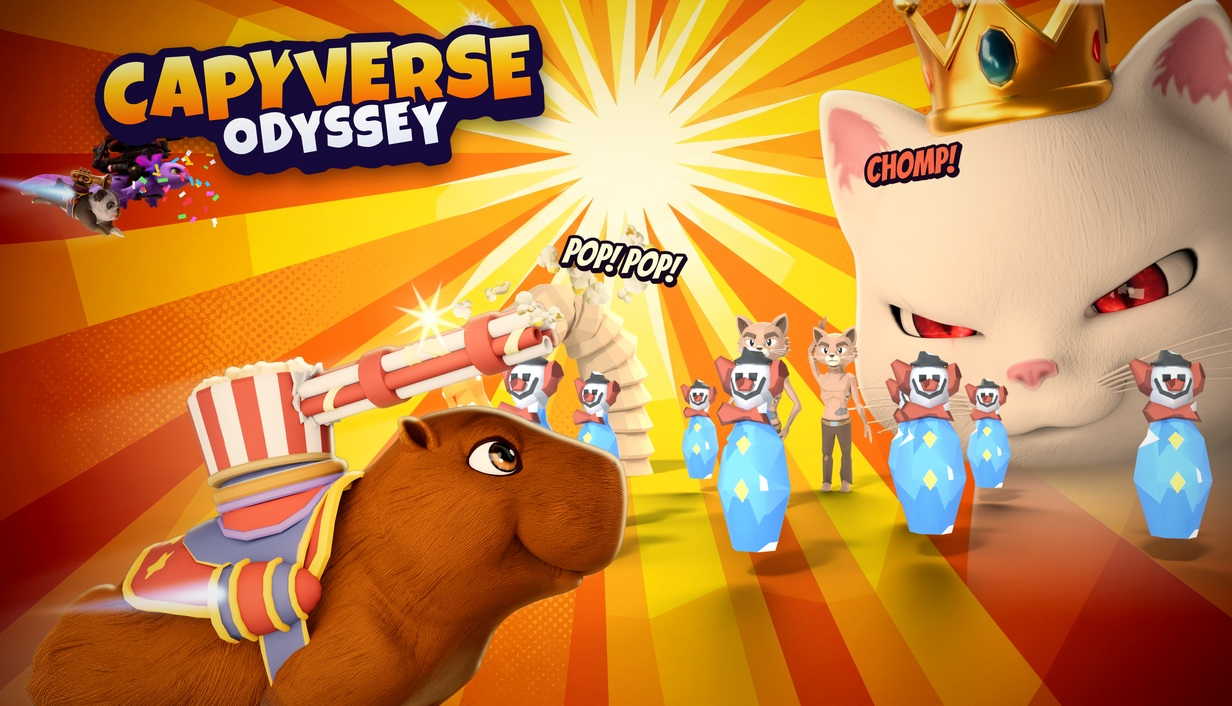
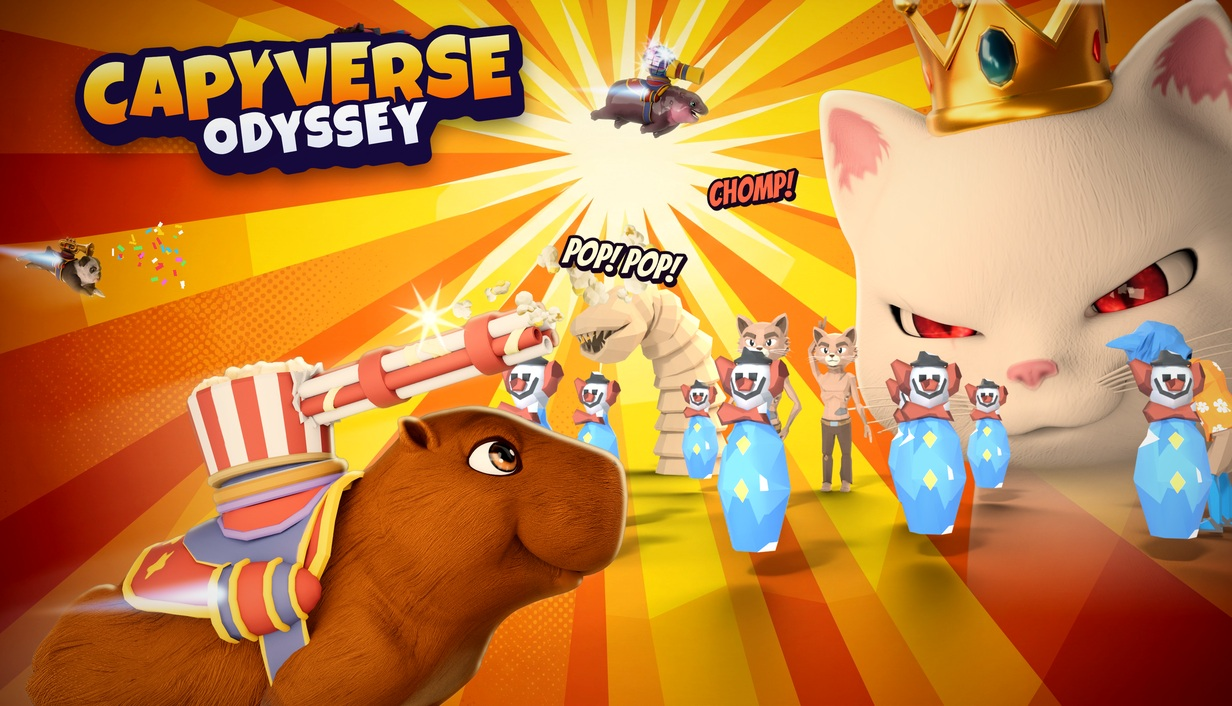
3D capsules round 6: five Blender scenes with real enemy assets composited with hero renders
Claude-Session: https://claude.ai/code/session_018fZnw7q9GfrPae2jvB7B6c

diff --git a/work/capsules-v1/gallery.html b/work/capsules-v1/gallery.html
@@ -51,7 +51,7 @@ h1 { font-family: var(--display); font-weight: 400; font-size: clamp(34px, 5vw, 
 <div class="wrap" id="app">
   <header>
     <h1>Capyverse Capsules</h1>
-    <p class="lede">Round 4: #12 on plain gradients, five in the brand yellow-to-orange and three off-brand color tests. Round 3: five variations of #12 Showdown Stack, with Cappy moved clear of the worm, bigger side-belt thrusters, a detailed golf shot and small comic sound effects. Round 2: ten capsules in the direction of the round 1 picks (01, 04, 09), Cappy always the hero, plus four art-style shaders. Steam main capsule size (1232×706). In every one, <b>the characters are the real Unreal render, not AI</b>. Only the backgrounds, Axie and the clown pin came from image models, then everything was composited by hand.</p>
+    <p class="lede">Round 6: five capsules built as a real 3D scene in Blender with the game's enemy meshes, rigs, animations and textures, the real hero renders composited in front. Round 4: #12 on plain gradients, five in the brand yellow-to-orange and three off-brand color tests. Round 3: five variations of #12 Showdown Stack, with Cappy moved clear of the worm, bigger side-belt thrusters, a detailed golf shot and small comic sound effects. Round 2: ten capsules in the direction of the round 1 picks (01, 04, 09), Cappy always the hero, plus four art-style shaders. Steam main capsule size (1232×706). In every one, <b>the characters are the real Unreal render, not AI</b>. Only the backgrounds, Axie and the clown pin came from image models, then everything was composited by hand.</p>
     <div class="bar">
       <div class="toggle" role="group" aria-label="Preview size">
         <button type="button" id="size-full" aria-pressed="true">Full size</button>
@@ -89,6 +89,13 @@ const V2 = [
   ["19_print_run_riso", "Print Run", "Shader: three-ink risograph poster in pink, yellow and blue on cream paper.", ["Shader", "Riso print"]],
   ["20_bleached_sun_painted", "Bleached Sun", "Shader: Risk of Rain 2 style painted key art, pale haze and a huge red sun.", ["Shader", "Painted"]],
 ];
+const V6 = [
+  ["3d_L1", "3D · Showdown", "Real Blender scene: bowling pins, worm (hit-ground anim), golfer (swing anim + hand-modelled club) and two posed Warboys charge left over the sunburst; Cappy dominates the front, Ophelia towers behind.", ["Round 6", "3D real assets"]],
+  ["3d_L2", "3D · Canyon Colossus", "The real worm rig scaled to boss size erupting from the canyon crater, pins scattering, golfer mid-swing on the right.", ["Round 6", "3D real assets"]],
+  ["3d_L3", "3D · Strike!", "A real 10-pin rack of bowling-pin enemies down the cosmic lane; the golfer swings in the foreground, Warboys cheer from the sides.", ["Round 6", "3D real assets"]],
+  ["3d_L4", "3D · Surrounded", "High camera: the enemies close in a ring around Cappy on the brand gradient, worm rising at the back.", ["Round 6", "3D real assets"]],
+  ["3d_L5", "3D · The March", "Ophelia's crew marches single-file into the dusk; Cappy turns to face them.", ["Round 6", "3D real assets"]],
+];
 const V4 = [
   ["12g1_vertical", "12g1 Vertical", "Vertical: golden yellow on top to vibrant orange at the bottom (the original gradient).", ["Round 4", "Brand gradient"]],
   ["12g2_diagonal", "12g2 Diagonal", "Diagonal: bright yellow top-left to deep orange bottom-right.", ["Round 4", "Brand gradient"]],
@@ -122,13 +129,13 @@ const card = ([id, name, idea, tags], i) => `
   <article class="cap" id="${id.replace(/_/g, "-")}">
     <figure><img src="caps/${id}.jpg" alt="${name} capsule" width="1232" height="706" loading="${i < 2 ? "eager" : "lazy"}"></figure>
     <div class="meta">
-      <span class="num">${id.match(/^\d+(g\d|[a-e])?/)[0]}</span>
+      <span class="num">${(id.match(/^3d_L\d|^\d+(g\d|[a-e])?/)||[''])[0].replace('3d_','')}</span>
       <h2>${name}</h2>
       <p>${idea}</p>
       <div class="tags">${tags.map(t => `<span class="tag${t === "Picked" ? " pick" : ""}">${t}</span>`).join("")}</div>
     </div>
   </article>`;
-document.getElementById("list").innerHTML = `<h2 class="round">Round 4 · #12 on plain gradients</h2>` + V4.map(card).join("") + `<h2 class="round">Round 3 · #12 variations</h2>` + V3.map((x, i) => card(x, i + 8)).join("") + `<h2 class="round">Round 2</h2>` + V2.map((x, i) => card(x, i + 5)).join("");
+document.getElementById("list").innerHTML = `<h2 class="round">Round 6 · 3D scene with real game assets</h2>` + V6.map(card).join("") + `<h2 class="round">Round 4 · #12 on plain gradients</h2>` + V4.map(card).join("") + `<h2 class="round">Round 3 · #12 variations</h2>` + V3.map((x, i) => card(x, i + 8)).join("") + `<h2 class="round">Round 2</h2>` + V2.map((x, i) => card(x, i + 5)).join("");
 document.getElementById("list1").innerHTML = `<h2 class="round">Round 1</h2>` + V1.map((x, i) => card(x, i + 10)).join("");
 const app = document.getElementById("app");
 const full = document.getElementById("size-full"), small = document.getElementById("size-small");

diff --git a/work/capsules-3d/compose_3d.py b/work/capsules-3d/compose_3d.py
@@ -32,17 +32,17 @@ CFG = {
                cappy=(-80, 600, 1.3), moody=(1180, 90, 0.55), jim=(30, 470, 0.62), logo=(600, 200, 900),
                sfx=[("POP! POP!", 1240, 520, 72, -10, (255, 245, 210)), ("CHOMP!", 1500, 380, 66, 8, (255, 110, 80))]),
     "L2": dict(plate=("plate", "plates_used/v2_canyon_colossus_nbp_0.jpg", (0.5, 0.5)), oph=None,
-               cappy=(-60, 640, 1.3), moody=(1900, 80, 0.55, True), jim=(60, 300, 0.7), logo=(600, 210, 880),
+               cappy=(-60, 640, 1.3), moody=(1900, 80, 0.55, True), jim=(1180, 70, 0.6), logo=(600, 210, 880),
                sfx=[("RUMBLE!", 1600, 980, 76, 6, (255, 200, 90)), ("POP!", 1220, 600, 64, -10, (255, 245, 210))]),
     "L3": dict(plate=("plate", "plates_used/06_strike_nbp_0.jpg", (0.5, 0.5)), oph=(W - 613 * 1.2 + 80, -60, 1.2, 0.85),
                cappy=(-40, 640, 1.25), moody=(1650, 40, 0.5, True), jim=(80, 260, 0.68), logo=(1232, 190, 820),
                sfx=[("STRIKE!", 1200, 560, 80, -6, (255, 230, 60)), ("FORE!", 2050, 560, 70, 8, (255, 230, 60))]),
-    "L4": dict(plate=("grad", [(0, (255, 236, 120)), (0.45, (255, 212, 38)), (1, (255, 120, 20))], "radial"), oph=(1232 - 613 * 1.25 / 2, -150, 1.25, 0.9),
-               cappy=(560, 520, 1.15), moody=(1900, 120, 0.5, True), jim=(120, 120, 0.62), logo=(560, 190, 760),
-               sfx=[("SURROUNDED?!", 1232, 1290, 70, -3, (255, 245, 210))]),
+    "L4": dict(plate=("grad", [(0, (255, 236, 120)), (0.45, (255, 212, 38)), (1, (255, 120, 20))], "radial"), oph=(W - 613 * 1.35 + 40, -170, 1.35, 0.9),
+               cappy=(330, 620, 1.15), moody=(1500, 60, 0.5, True), jim=(40, 640, 0.6), logo=(600, 200, 860),
+               sfx=[("SURROUNDED?!", 1700, 1300, 70, -3, (255, 245, 210))]),
     "L5": dict(plate=("plate", "plates_used/v2_dusk_dunes_nbp_0.jpg", (0.5, 0.5)), oph=(W - 613 * 1.5 + 40, 880 - 930 * 1.5, 1.5, 0.75),
-               cappy=(1300, 620, 1.2, True), moody=(1450, 120, 0.5, True), jim=(1900, 380, 0.65, True), logo=(600, 210, 900),
-               sfx=[("MARCH! MARCH!", 760, 1180, 62, -4, (255, 230, 200))]),
+               cappy=(1420, 700, 1.05, True), moody=(1320, 150, 0.5, True), jim=(1180, 420, 0.6, True), logo=(600, 210, 900),
+               sfx=[("MARCH! MARCH!", 640, 1250, 62, -4, (255, 230, 200))]),
 }
 
 

diff --git a/work/capsules-3d/layouts.py b/work/capsules-3d/layouts.py
@@ -59,11 +59,11 @@ def L4():  # SURROUNDED: enemies in an arc around an empty centre where Cappy la
     ring = [(-4.0, 1.4), (-3.2, 3.4), (-1.4, 4.6), (2.8, 4.2), (4.2, 2.2), (4.8, 0.0), (-4.6, -0.8)]
     for x, y in ring:
         add_pin((x, y, 0), rot_z=math.degrees(math.atan2(-y, -x)) - 90 + random.uniform(-10, 10), scale=1.8, frame=random.choice([3, 8, 12]))
-    add_worm((0.4, 6.6, 0), rot_z=-90, scale=2.6, frame=35, anim="hit")
+    add_worm((-1.8, 6.6, 0), rot_z=-70, scale=2.6, frame=35, anim="hit")
     add_warboy((-2.4, 0.6, 0), rot_z=35, scale=1.05, pose=WARBOY_POSES["taunt"])
     add_warboy((2.6, 1.0, 0), rot_z=-35, scale=1.05, pose=WARBOY_POSES["fists"])
     add_golfer((3.6, 5.6, 0), rot_z=-30, scale=1.0, frame=70)
-    add_axie((-4.2, -1.5, 3.4), rot_z=40, scale=1.4, tilt=-10)
+    add_axie((3.4, -1.5, 3.6), rot_z=140, scale=1.3, tilt=-10)
     shadow_catcher(); lights(key=(55, 0, -10))
     camera((0, -8.6, 3.8), (0, 2.0, 1.0), lens=27)
 
@@ -79,7 +79,7 @@ def L5():  # THE MARCH: Ophelia's crew in a single file marching left in profile
         else: add_golfer((x, y, 0), rot_z=rz, scale=sc, frame=55)
         x += 1.35; y += 1.25
     add_worm((7.0, 9.0, 0), rot_z=-90, scale=2.4, frame=60, anim="idle")
-    add_axie((-3.2, -2.0, 2.4), rot_z=95, scale=1.3, tilt=-5)
+    add_axie((-1.2, -2.4, 2.9), rot_z=95, scale=1.2, tilt=-5)
     shadow_catcher(); lights(key=(45, 0, -60))
     camera((0.2, -8.2, 1.2), (2.8, 3.0, 1.6), lens=30)
 

diff --git a/work/capsules-3d/README.md b/work/capsules-3d/README.md
@@ -1,0 +1,14 @@
+# Capsules from a real 3D scene (round 6)
+
+Assets: Drive "Models&Animations/November2026" (downloaded with gdown into `assets_src/`): BowlingPins, Worm, Golfer,
+WastelandWarboy — FBX meshes, rigs, animations, textures, separate ST_CatHead meshes.
+Not in the folders: heroes (Cappy, Moody, Jim), Ophelia, environments, screenshots.
+
+Pipeline:
+- `scene.py` (Blender 5.2 as Python module `bpy`): imports FBX, assigns textures, attaches cat heads to the `head`
+  bone (rot -90,0,0), sets animation frames, poses Warboy bones by hand (its animations are for another skeleton),
+  models a golf club on the golfer's right hand, Axie from fal Trellis image-to-3D (`axie3d/axie_trellis.glb`),
+  shadow-catcher ground, Cycles CPU render with transparent film.
+- `layouts.py L1..L5`: five scenes/cameras -> `renders/L*_3d.png` (2464x1412, RGBA with shadows).
+- `compose_3d.py`: plate -> Ophelia (Unreal render, anchored right because the source crop is cut there) -> 3D layer ->
+  real hero renders (Cappy biggest, popcorn/disco flares/confetti/belt thrusters) -> onomatopoeias -> logo E4.
